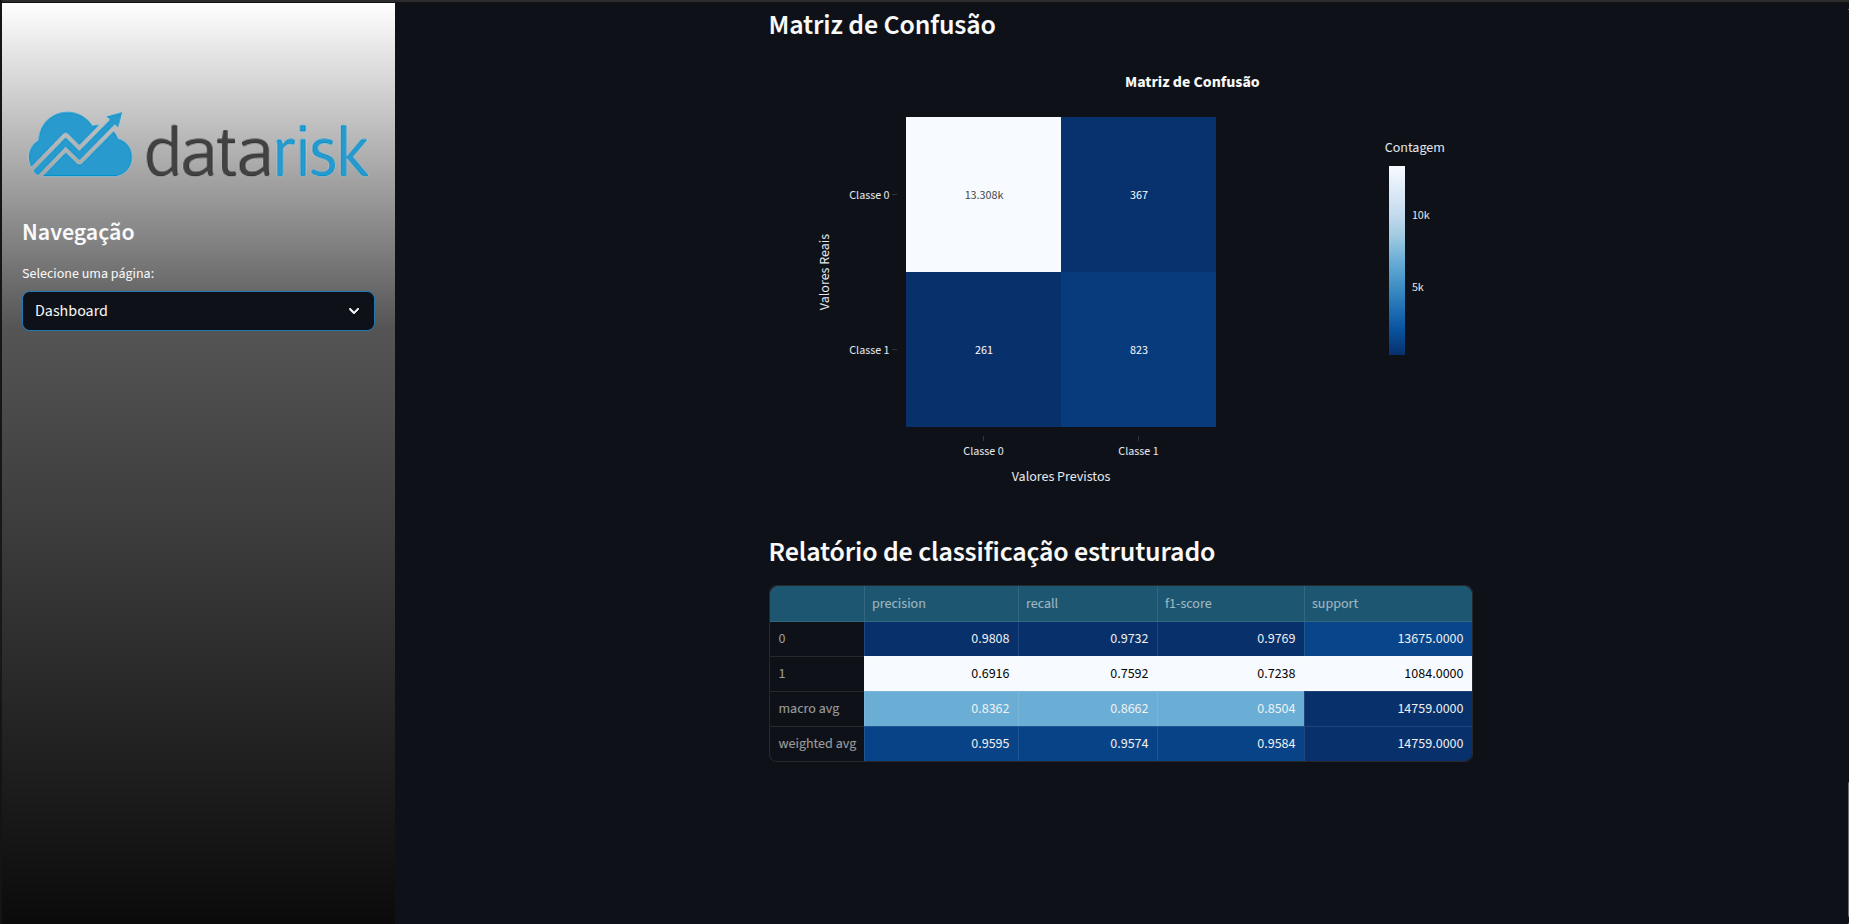
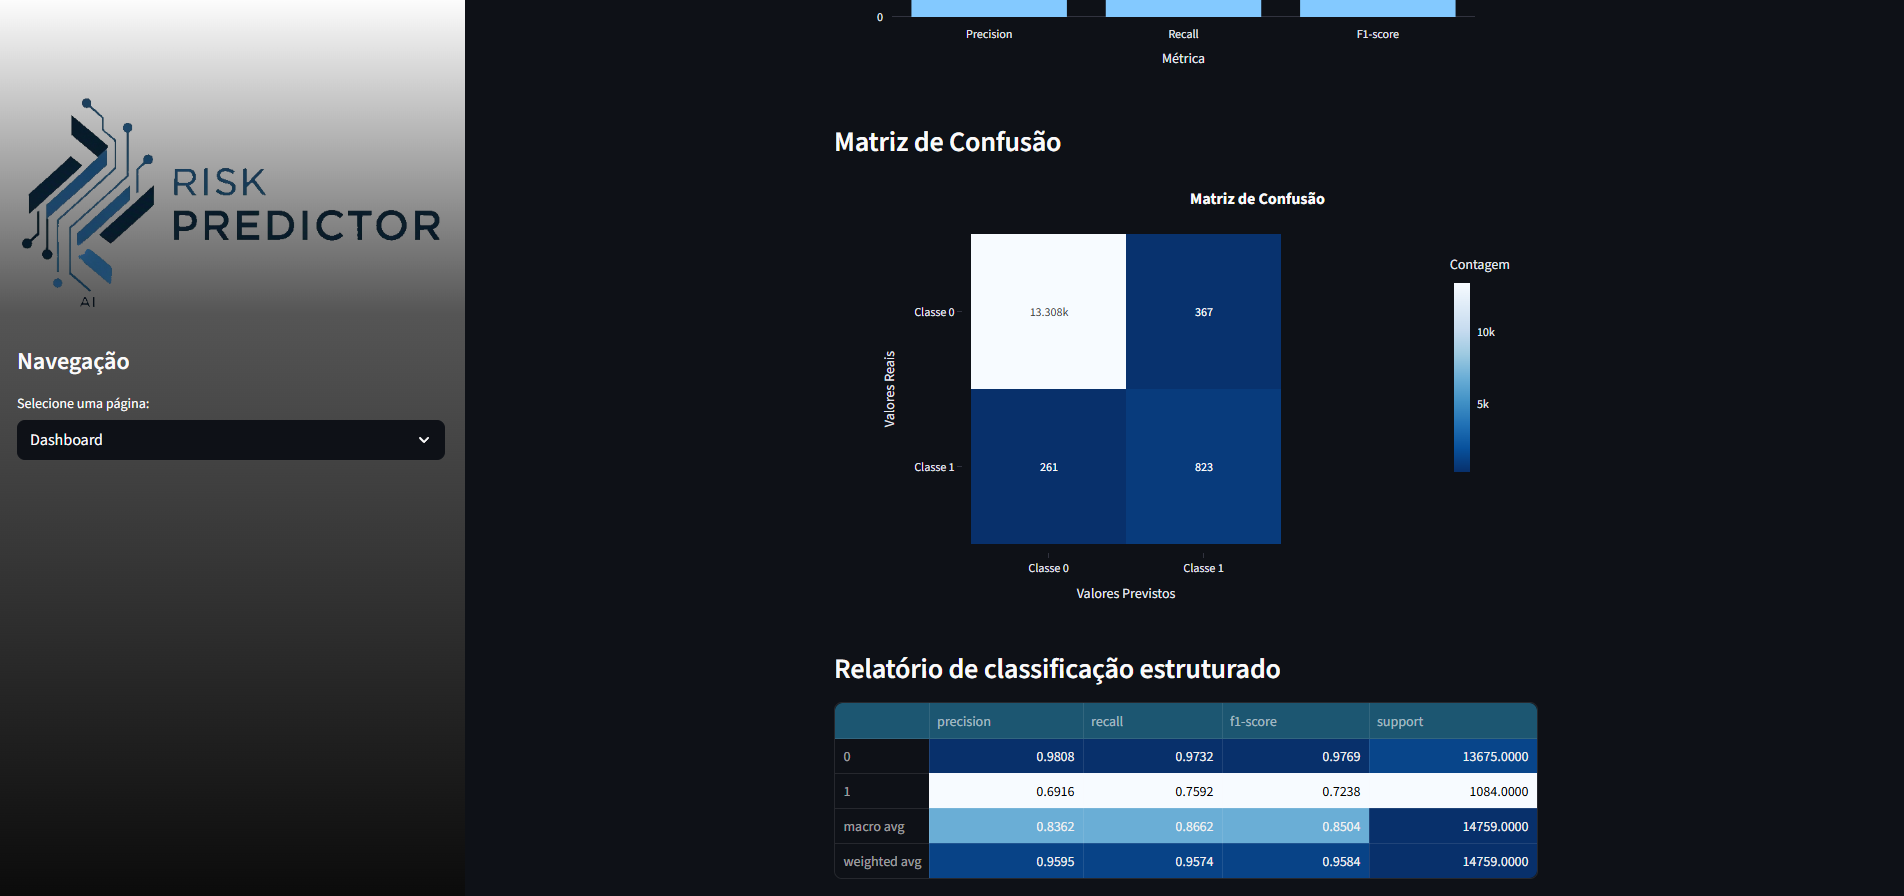
Projeto está genérico

diff --git a/dashboard/pages/inicio.py b/dashboard/pages/inicio.py
@@ -1,15 +1,27 @@
 import streamlit as st
 import textwrap
-
+from PIL import Image
 
 def show():
-    st.image("./assets/logo.png")
-    st.title("Case Técnico - Cientista de Dados Trainee")
+
+    # Carrega a imagem
+    image = Image.open("./assets/logo2.png")
+
+    # Reduz a 50% do tamanho original
+    width, height = image.size
+    new_size = (width // 2, height // 2)
+
+    # Cria três colunas e coloca a imagem na coluna do meio
+    col1, col2, col3 = st.columns([1, 2, 1])
+    with col2:
+        st.image(image.resize(new_size))
+
+    st.title("Case Técnico - Ciência de Dados")
 
     texto = textwrap.dedent(
         """
         <b>Bem-vindo(a) à página inicial da aplicação!</b> Este dashboard interativo 
-        foi desenvolvido como parte do case técnico para a vaga de Cientista de Dados Trainee na Datarisk. 
+        foi desenvolvido como parte do case técnico em Cientista de Dados. 
         O objetivo deste projeto foi desenvolver um modelo preditivo capaz de estimar a inadimplência
         de clientes com base em dados cadastrais e dados históricos mensais. Durante a preparação dos dados,
         foram aplicadas técnicas como <b>interpolação linear</b> para variáveis com tendência temporal, 
@@ -26,11 +38,9 @@ def show():
         <b>F1-score de 0.72</b>, <b>Recall de 0.76</b> (métrica muito importante para modelos de inadimplência) para a classe de inadimplentes 
         (Classe 1). Este dashboard reúne de forma visual e 
         interativa algumas etapas do trabalho, da análise exploratória, engenharia de atributos à avaliação dos modelos,
-        com o objetivo de tornar o processo mais transparente e facilitar a interpretação dos resultados. <b>Gostaria de agradecer
-         pela oportunidade de participar deste case técnico.</b> Foi uma excelente forma de aplicar conhecimentos 
-        em um contexto prático e desafiador, alinhado com problemas reais enfrentados no mercado. Independentemente do 
-        resultado, a experiência já representa um aprendizado valioso.
-    """
+        com o objetivo de tornar o processo mais transparente e facilitar a interpretação dos resultados.
+
+        """
     )
 
     # Remove quebras de linha para que o texto seja exibido corretamente

diff --git a/dashboard/app.py b/dashboard/app.py
@@ -5,7 +5,7 @@ from pages import inicio, sistema_risk_predict, eda
 def main():
     # Configurar o título da página e o ícone
     st.set_page_config(
-        page_title="Risk Predict",
+        page_title="Risk Predictor",
         page_icon="./assets/mini-logo.png",
         initial_sidebar_state="expanded",
     )
@@ -56,7 +56,7 @@ def main():
     st.sidebar.title("Navegação")
     pagina_selecionada = st.sidebar.selectbox(
         "Selecione uma página:",
-        ["Início", "Dashboard", "Sistema Risk Predict"],
+        ["Início", "Dashboard", "Sistema Risk Predictor"],
     )
 
     # Renderizar a página selecionada
@@ -64,7 +64,7 @@ def main():
         inicio.show()
     elif pagina_selecionada == "Dashboard":
         eda.show()
-    elif pagina_selecionada == "Sistema Risk Predict":
+    elif pagina_selecionada == "Sistema Risk Predictor":
         sistema_risk_predict.show()
 
 

diff --git a/dashboard/pages/sistema_risk_predict.py b/dashboard/pages/sistema_risk_predict.py
@@ -24,7 +24,7 @@ def show():
         unsafe_allow_html=True,
     )
 
-    st.title("Sistema Risk Predict")
+    st.title("Sistema Risk Predictor")
 
     st.markdown(
         """

diff --git a/README.md b/README.md
@@ -1,13 +1,13 @@
 # default-risk-analysis
 
-Este projeto foi desenvolvido como parte de um case técnico da Datarisk, com o objetivo de prever a inadimplência em cobranças mensais com base em dados cadastrais, histórico de pagamentos e perfil dos clientes. Conforme o enunciado do case, a proposta do desafio simula um cenário real dentro da empresa. Pensando nisso, foi criada uma interface interativa com Streamlit, que facilita a visualização dos dados, métricas e previsões de forma simples e acessível. A seguir, estão as informações sobre a estrutura do projeto e como executar os notebooks e a aplicação.
+Este projeto foi desenvolvido como parte de um case técnico, com o objetivo de prever a inadimplência em cobranças mensais com base em dados cadastrais, histórico de pagamentos e perfil dos clientes. Conforme o enunciado do case, a proposta do desafio simula um cenário real dentro da empresa. Pensando nisso, foi criada uma interface interativa com Streamlit, que facilita a visualização dos dados, métricas e previsões de forma simples e acessível. A seguir, estão as informações sobre a estrutura do projeto e como executar os notebooks e a aplicação.
 
 # Entendendo os diretórios
 
 ## `assets`
 
 * Contém os arquivos de imagem utilizados para ilustrar o arquivo `README.md`.
-  * **logo.png** e **mini-logo.png**: Logotipos da Datarisk usados na interface do Streamlit.
+  * **logo.png**, **logo2.png** e **mini-logo.png**: Logotipos usados na interface do Streamlit.
   * **pages.png**: Print da tela inicial da aplicação (para a documentação).
   * **dash.png**: Print da tela de dashboard com as métricas do modelo (para a documentação).
   * **risk-predict.png**: Print da tela do sistema de previsão de risco (para a documentação).
@@ -95,7 +95,7 @@ Esta é a página principal, que apresenta um resumo do case técnico e do objet
 
 ![Tela Inicial](./assets/pages.png)
 
-1. **Selecione uma página:** No topo da barra lateral, há um menu dropdown chamado "Selecione uma página:". Clique nele para visualizar as opções de navegação: "Início", "Dashboard" e "Sistema Risk Predict".
+1. **Selecione uma página:** No topo da barra lateral, há um menu dropdown chamado "Selecione uma página:". Clique nele para visualizar as opções de navegação: "Início", "Dashboard" e "Sistema Risk Predictor".
 2. **Navegação:** Clique em cada uma das opções para acessar as respectivas páginas da aplicação.
 
 **Tela de Dashboard:**
@@ -107,27 +107,24 @@ Esta página exibe alguns gráficos de exploração dos dados após todos os tra
 1. **Visualização:** Ao acessar a página "Dashboard" através do menu de navegação, você poderá visualizar algumas análises dos dados.
 2. **Relatório de Classificação:** Há também informações específicas de desempenho dos modelos testados como da matriz de confusão e relatório de classificação, com métricas importantes como precisão, recall, f1-score e suporte para cada classe e para as médias macro e ponderada.
 
-**Tela de Sistema Risk Predict:**
+**Tela de Sistema Risk Predictor:**
 
 Esta página permite realizar previsões de risco de inadimplência através do upload de um arquivo CSV.
 
-![Tela de Sistema Risk Predict](./assets/risk-predict.png)
+![Tela de Sistema Risk Predictor](./assets/risk-predict.png)
 
 1. **Upload do CSV:** Na seção "Upload do CSV", você encontrará uma área para arrastar e soltar o arquivo CSV contendo os dados a serem previstos. O arquivo deve seguir o formato especificado, com colunas separadas por ponto e vírgula (`;`) e com as colunas: `ID_CLIENTE`, `SAFRA_REF`, `DATA_EMISSAO_DOCUMENTO`, `DATA_VENCIMENTO`, `VALOR_A_PAGAR` e `TAXA`. O limite de tamanho por arquivo é de 200MB. Você também pode clicar em "Browse Files" para selecionar o arquivo através do explorador de arquivos do seu sistema.
 2. **Arquivo Carregado:** Após o upload, o nome do arquivo aparecerá abaixo da área de upload. Você pode remover o arquivo carregado clicando no ícone de "X" ao lado do nome do arquivo.
 3. **Realizando a previsão:** Após carregar o arquivo e selecionar a coluna de imputação, a aplicação iniciará automaticamente o processo de leitura e previsão dos dados. Uma barra de progresso "Realizando a previsão..." será exibida.
 4. **Download dos resultados:** Ao final do processamento, um botão de download será disponibilizado para você baixar um arquivo CSV contendo as previsões de risco de inadimplência para os dados fornecidos. Será gerado também um gráfico de dispersão da inadimplência para os registros atualizados e um gráfico de pizza com o percentual de amostras com probabilidade igual ou maior a 50% de inadimplência.
 
-
-
 # Referência Principal
-
 
 **GÉRON, Aurélien.** *Hands-On Machine Learning with Scikit-Learn, Keras, and TensorFlow: Concepts, Tools, and Techniques to Build Intelligent Systems.* 2ª edição. O’Reilly Media, 2019.
 
 A obra serviu de base para diversas decisões no pipeline, como:
+
 - Adoção de modelos robustos como Random Forest, XGBoost e Regressão Logística;
 - Uso de pipelines com `StandardScaler` para algoritmos sensíveis à escala (Regressão Logística por exemplo);
 - Aplicação de `SMOTE` para lidar com o desbalanceamento de classes;
 - Estratégia de validação com `GridSearchCV` utilizando `StratifiedKFold` e otimização baseada em ROC AUC.
-
